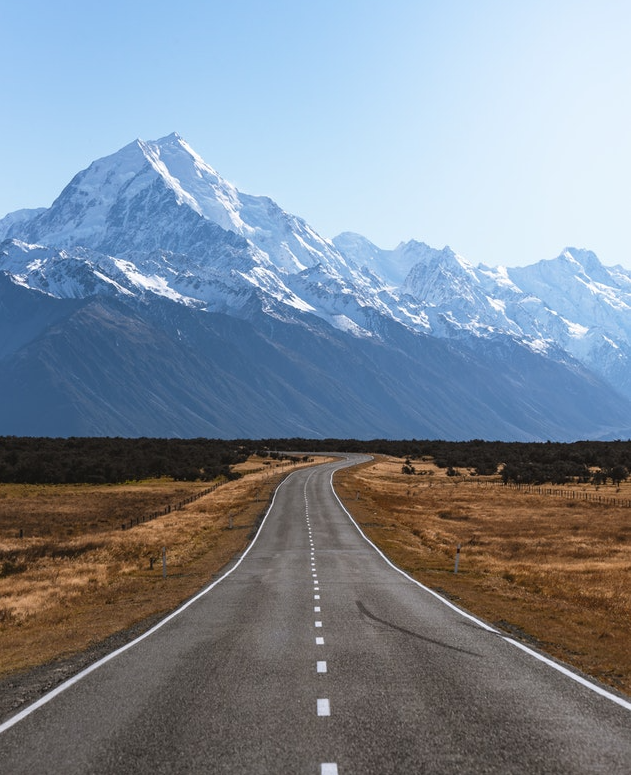
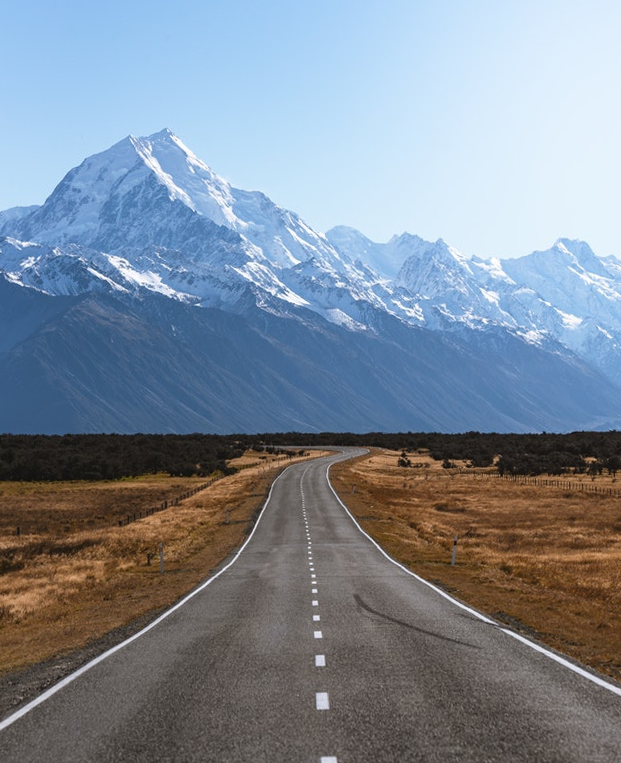
Still doing landing page

diff --git a/css/style.css b/css/style.css
@@ -8,20 +8,15 @@ body {
     background-color: #F5F9FD;
     background-position: center;
     background-repeat: no-repeat;
-    background-size: contain;
-    width: 100vw;
+    background-size: cover;
+    width: auto;
+    height: 100vh;
     /* margin-left: auto;
     margin-right: auto; */
 }
 
 /*** TRY USING REM FOR FONT SIZE; ALSO MAKE BREAK POINTS & MEDIA QUERIES ***/
 
-/*
-@media only screen and (min-width: 800px) {
-    .heroImage{
-        width: 70vw;
-    }
-} */
 
 .mainHeaderContainer{
     padding-top: 10vh;
@@ -42,28 +37,28 @@ hr{
 
 .newZealandHeader{
     font-family: 'Impact', sans-serif;
-    font-size: 13.3vw;
+    font-size: 6.5vh;
     color: #232C43;
     padding-top: 1vh;
 }
 
 .roadTripHeader{
     font-family: 'Pacifico', cursive;
-    font-size: 12vw;
+    font-size: 6vh;
     color: #232C43;
     padding: 0px 20px 10px 20px;
 }
 
 .appName{
     padding-top: 4vh;
-    margin: 0vw 5vw;
+    margin: 20px 5vw;
     text-align: center;
 }
 
 .transportPlanner{
     font-family: 'Trebuchet MS', sans-serif;
     font-weight: bold;
-    font-size: 8vw;
+    font-size: 4vh;
     color: #FFFFFF;
     padding-top: 1vh;
 }
@@ -72,6 +67,7 @@ hr{
     height: auto;
     padding-top: 2vh;
     margin: 0;
+    /* margin-top: 10px; */
     text-align: center;
 }
 
@@ -81,18 +77,52 @@ hr{
 }
 
 .letsGoBox{
-    height: 10vh;
-    width: 30vw;
+    height: auto;
+    width: 25vw;
     background-color: #232C43;
-    border-radius: 30px;
-    box-shadow: 5px 10px 18px #444444;
-    margin: 2vh 35vw;
+    border-radius: 20px;
+    box-shadow: 5px 5px 8px #444444;
+    margin: auto;
     text-align: center;
+    margin-top: 50px;
+    padding-bottom: 5px;
 }
 
 .letsGoHeader{
     font-family: 'Pacifico', cursive;
-    font-size: 6vw;
+    font-size: 2vh;
     color: #FFFFFF;
     padding: 5px;
+
+}
+
+.logoBox{
+  overflow: auto;
+  text-align: right;
+}
+
+.pureNZlogo{
+  width: 35vw;
+  position: fixed;
+  bottom: 0;
+  right: 0;
+}
+
+@media only screen and (min-width: 650px) {
+  .newZealandHeader{
+      font-size: 10vh;
+  }
+  .roadTripHeader{
+      font-size: 8vh;
+  }
+  .transportPlanner{
+      font-size: 6vh;
+}
+  .vehicleIcon{
+      width: 15vw;
+      padding: 1.5vw;
+  }
+  .pureNZlogo{
+    width: 20vw;
+  }
 }

diff --git a/index.html b/index.html
@@ -26,7 +26,9 @@
         </div>
         <div class="letsGoBox">
             <p class="letsGoHeader">Let's go!</p>
-
+        </div>
+        <div class="logoBox">
+          <img class="pureNZlogo" src="images/pureNZlogo.png" alt="logo for 100% Pure NZ campaign">
         </div>
 
 
